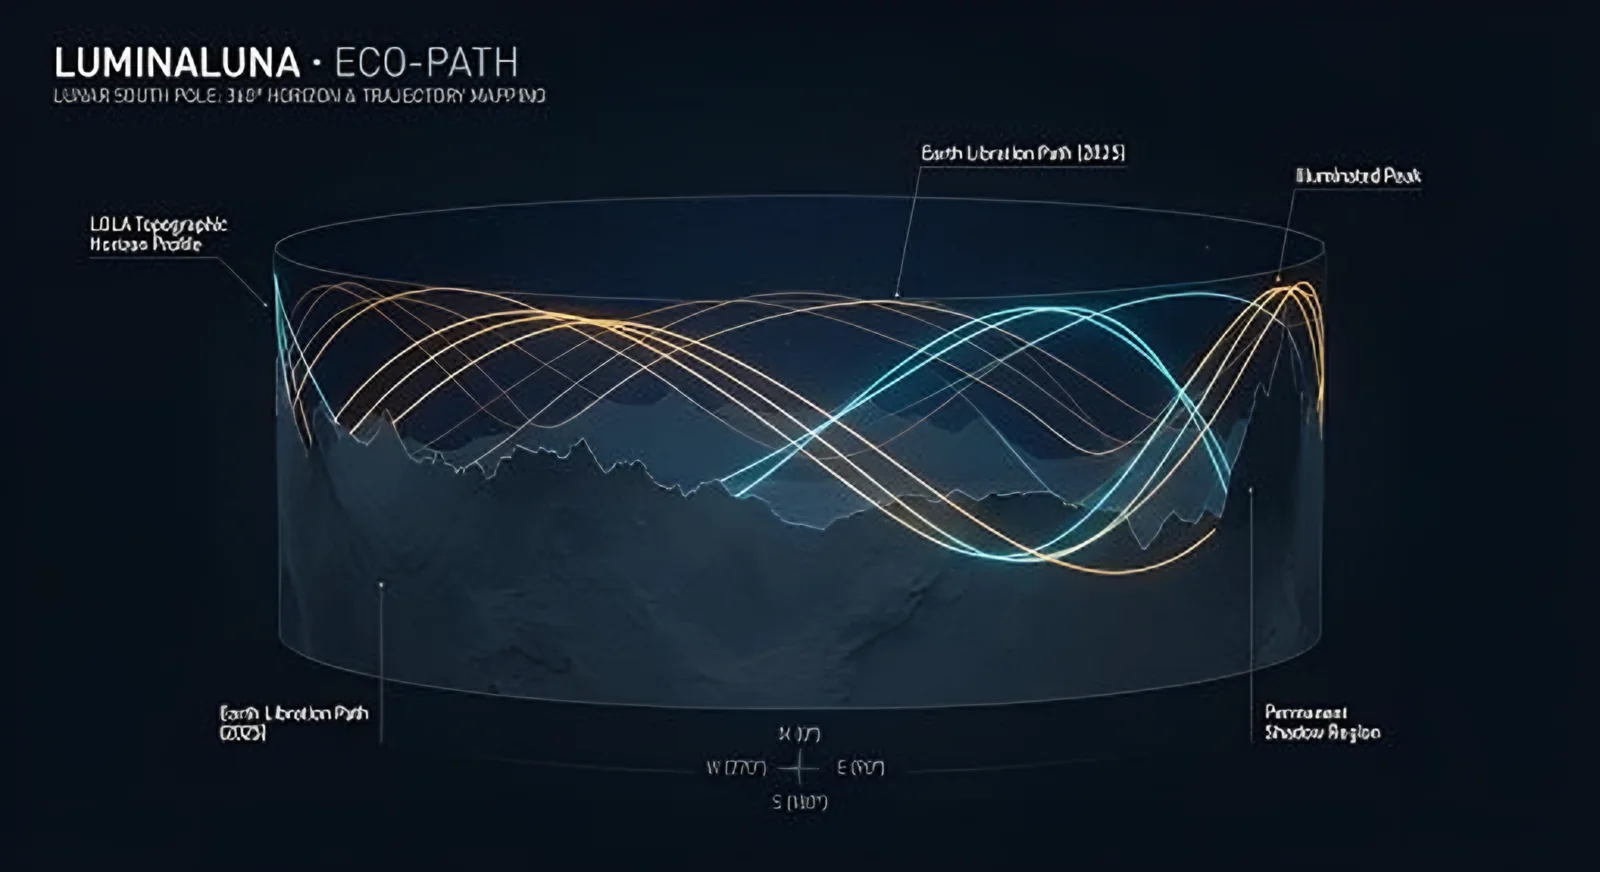
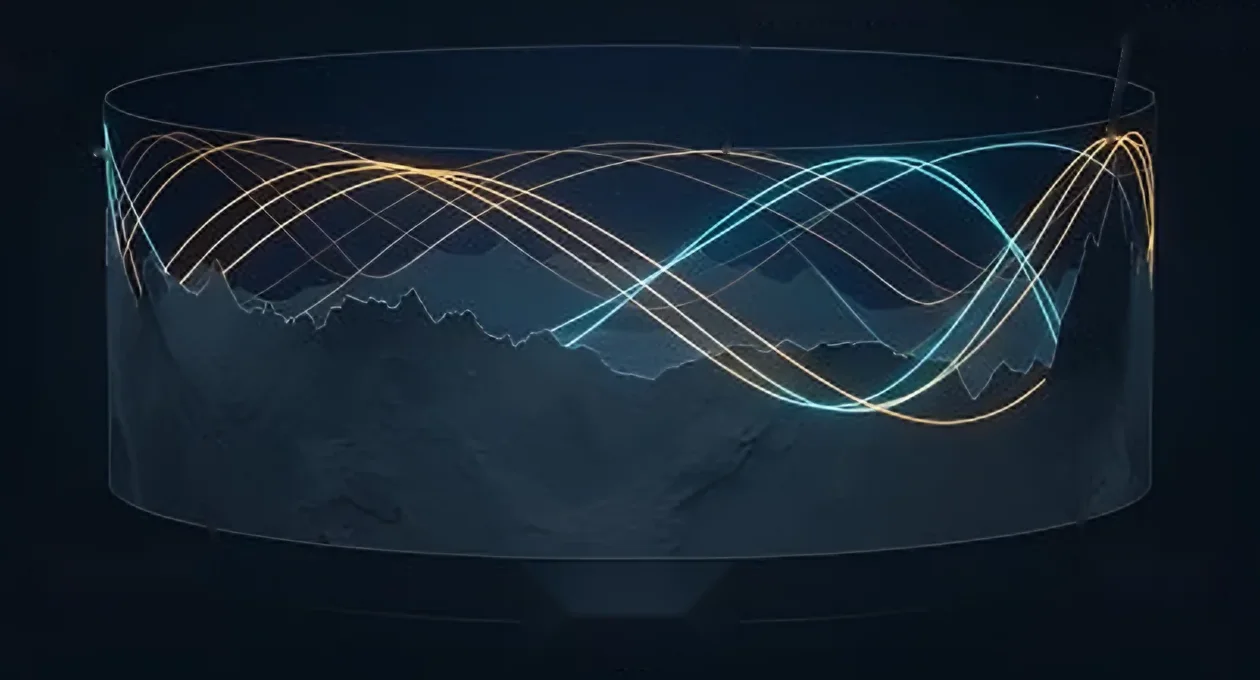
Clearer mission card with Sun and Earth chart; cache-proof files

diff --git a/app/js/landing.js b/app/js/landing.js
@@ -1,8 +1,8 @@
 // landing.js — the home page: hero map with real site positions, top sites, key facts, mission skyline.
-import { $, $$, esc, store, LOGO, countUp, revealOnScroll, fmtPct, fmtNum, fmtLat, fmtLon, isoMin, parseIsoUTC, shortName, thumbUrl, yearSummary } from './ui.js';
-import { loadSites, ephemRange, dataUrl, mapMeta } from './data.js';
-import { prepareSite, statusAt, series, VISIBLE } from './engine.js';
-import { toPolarXY } from './geo.js';
+import { $, $$, esc, store, LOGO, countUp, revealOnScroll, fmtPct, fmtNum, fmtLat, fmtLon, isoMin, parseIsoUTC, shortName, thumbUrl, yearSummary } from './ui.js?v=8';
+import { loadSites, ephemRange, dataUrl, mapMeta } from './data.js?v=8';
+import { prepareSite, statusAt, series, VISIBLE } from './engine.js?v=8';
+import { toPolarXY } from './geo.js?v=8';
 
 const sites = await loadSites();
 const range = await ephemRange();
@@ -117,19 +117,33 @@ kio.observe($('#kGrid'));
 
 // ------------------------------------------------------------------ mission skyline (real data)
 async function missionSky() {
-  const s = prepareSite(byId('shackleton_rim_sr1')), win = await series(s, now, 30 * 24);
-  const el = $('#mSky'), W = Math.max(300, el.clientWidth), H = 170, lo = -3, hi = 5;
-  const X = az => az / 360 * W, Yp = e => (hi - e) / (hi - lo) * (H - 18);
-  let d = `M0,${H - 18}`;
-  s.skyline.forEach((v, i) => { d += `L${X(i * .5).toFixed(1)},${Yp(Math.max(lo, v)).toFixed(1)}`; });
-  d += `L${W},${H - 18}Z`;
-  let sun = '';
-  for (let i = 0; i < win.n; i += 6) if (win.valid[i]) sun += `<circle cx="${X(win.sunAz[i]).toFixed(1)}" cy="${Yp(win.sunEl[i]).toFixed(1)}" r="1.6" fill="${win.sunFrac[i] >= VISIBLE ? '#F2B544' : '#3A4458'}"/>`;
-  const lab = ['N', 'E', 'S', 'W', 'N'].map((c, i) => `<text x="${Math.min(W - 8, Math.max(8, X(i * 90)))}" y="${H - 3}" font-size="10" fill="#8C98AB" font-family="Inter" font-weight="600" text-anchor="middle">${c}</text>`).join('');
-  el.innerHTML = `<svg viewBox="0 0 ${W} ${H}" width="100%" height="${H}"><defs><linearGradient id="mt" x1="0" y1="0" x2="0" y2="1"><stop offset="0" stop-color="#22324C"/><stop offset="1" stop-color="#0D1524"/></linearGradient></defs>
-    <line x1="0" x2="${W}" y1="${Yp(0)}" y2="${Yp(0)}" stroke="#2B3B55" stroke-dasharray="2 4"/>${sun}<path d="${d}" fill="url(#mt)" stroke="#57B8E8" stroke-opacity=".5"/>${lab}</svg>`;
-  const m = yearSummary(byId('shackleton_rim_sr1'), Y);
-  $('#mSun').textContent = `${fmtPct(m.sunPct, 0)} sunlit in ${Y}`;
+  const site = byId('shackleton_rim_sr1'), s = prepareSite(site), win = await series(s, now, 30 * 24);
+  const el = $('#mSky'), W = Math.max(300, el.clientWidth), H = 230, B = 22, L = 34;
+  let lo = -2, hi = 2;
+  s.skyline.forEach(v => { lo = Math.min(lo, v); hi = Math.max(hi, v); });
+  for (let i = 0; i < win.n; i++) if (win.valid[i]) { lo = Math.min(lo, win.sunEl[i], win.earthEl[i]); hi = Math.max(hi, win.sunEl[i], win.earthEl[i]); }
+  lo = Math.floor(lo - .5); hi = Math.ceil(hi + .5);
+  const X = az => L + az / 360 * (W - L), Yp = e => 6 + (hi - e) / (hi - lo) * (H - B - 6);
+  let d = `M${L},${H - B}`;
+  s.skyline.forEach((v, i) => { d += `L${X(i * 360 / s.skyline.length).toFixed(1)},${Yp(v).toFixed(1)}`; });
+  d += `L${W},${Yp(s.skyline[0]).toFixed(1)}L${W},${H - B}Z`;
+  let dots = '';
+  for (let i = 0; i < win.n; i += 4) if (win.valid[i]) {
+    const sOn = win.sunFrac[i] >= VISIBLE, eOn = win.earthFrac[i] >= VISIBLE;
+    dots += `<circle cx="${X(win.earthAz[i]).toFixed(1)}" cy="${Yp(win.earthEl[i]).toFixed(1)}" r="2" fill="#57B8E8" opacity="${eOn ? .95 : .22}"/>`;
+    dots += `<circle cx="${X(win.sunAz[i]).toFixed(1)}" cy="${Yp(win.sunEl[i]).toFixed(1)}" r="2" fill="#F2B544" opacity="${sOn ? .95 : .22}"/>`;
+  }
+  const step = (hi - lo) > 10 ? 4 : 2;
+  let grid = '';
+  for (let e = Math.ceil(lo / step) * step; e <= hi; e += step) grid += `<line x1="${L}" x2="${W}" y1="${Yp(e)}" y2="${Yp(e)}" stroke="#1E2A3D" ${e === 0 ? 'stroke="#3A4A63" stroke-dasharray="3 4"' : ''}/><text x="${L - 6}" y="${Yp(e) + 3.5}" font-size="10.5" fill="#8C98AB" text-anchor="end" font-family="Inter">${e > 0 ? '+' : ''}${e}°</text>`;
+  const lab = [['N', 0], ['E', 90], ['S', 180], ['W', 270], ['N', 360]].map(([c, az]) => `<text x="${Math.min(W - 6, X(az))}" y="${H - 5}" font-size="11" fill="#AEB7C6" font-family="Inter" font-weight="600" text-anchor="middle">${c}</text>`).join('');
+  el.innerHTML = `<svg viewBox="0 0 ${W} ${H}" width="100%" height="${H}" role="img"><defs><linearGradient id="mt" x1="0" y1="0" x2="0" y2="1"><stop offset="0" stop-color="#2A3954"/><stop offset="1" stop-color="#101827"/></linearGradient></defs>
+    ${grid}${dots}<path d="${d}" fill="url(#mt)" stroke="#8FA1BA" stroke-opacity=".6"/>${lab}</svg>`;
+  const m = yearSummary(site, Y);
+  $('#mSun').textContent = fmtPct(m.sunPct, 0);
+  $('#mEarth').textContent = fmtPct(m.earthPct, 0);
+  $('#mSunL').textContent = `of ${Y} in sunlight`;
+  $('#mEarthL').textContent = `of ${Y} with Earth in view`;
 }
 await missionSky();
 revealOnScroll();

diff --git a/app/index.html b/app/index.html
@@ -77,11 +77,19 @@
       <p>Near the lunar south pole, the Sun skims the horizon and Earth rises and sets slowly. A few kilometres decide between power and darkness, contact and silence. We compute sunlight and direct Earth visibility for candidate sites and for any point you click, using real NASA lunar terrain.</p>
       <p class="muted">By combining NASA LOLA laser topography with JPL planetary ephemerides, LUMINALUNA helps mission planners find sites with the most sunlight and the most time in direct radio contact with Earth.</p>
     </div>
-    <div class="card">
-      <img class="mimg" src="assets/photos/mission-diagram.webp" alt="Illustration of the Sun and Earth paths above a 360 degree horizon" width="512" height="279" loading="lazy">
-      <div class="card-head" style="margin-bottom:8px"><span class="label">Horizon · 360° around Shackleton rim</span><span class="label sun" id="mSun"></span></div>
-      <div id="mSky"></div>
-      <div class="note" style="margin-top:6px">The real skyline from NASA terrain, with the Sun's path over the next 30 days.</div>
+    <div class="card mcard">
+      <figure class="mfig">
+        <img src="assets/photos/mission-diagram.webp?v=8" alt="Illustration of the Sun's path in amber and Earth's path in blue looping around the horizon of a lunar site" width="1260" height="680" loading="lazy">
+        <figcaption><span class="lg s">Sun's path</span><span class="lg e">Earth's path</span><span class="tag">Illustration</span></figcaption>
+      </figure>
+      <h3 class="mtitle">The sky above Shackleton rim, from real data</h3>
+      <p class="msub">At the south pole, the Sun and Earth never climb high. They circle just above the hills, so a single ridge can hide them for days.</p>
+      <div class="mstats">
+        <div><b class="sun" id="mSun">–</b><span id="mSunL">of the year in sunlight</span></div>
+        <div><b class="earth" id="mEarth">–</b><span id="mEarthL">of the year with Earth in view</span></div>
+      </div>
+      <div id="mSky" aria-label="Chart of the real horizon at Shackleton rim with the Sun and Earth positions over the next 30 days"></div>
+      <p class="mnote">The grey shape is the real horizon, measured by NASA's LOLA laser. Each dot shows where the Sun or Earth will be over the next 30 days. A bright dot is above the hills: <span class="sun">sunlight for solar panels</span> or <span class="earth">a direct radio link to Earth</span>. A faded dot is hidden behind the terrain.</p>
     </div>
   </section>
 

diff --git a/app/css/landing.css b/app/css/landing.css
@@ -245,3 +245,20 @@ body.landing::before { display: none; }
 .lnav { transition: top .35s cubic-bezier(.2,.8,.2,1); }
 .lnav.bar-hidden { top: -110px; }
 @media (prefers-reduced-motion: reduce) { .lnav { transition: none; } }
+
+/* mission card: cleaner illustration + real chart with plain-language text */
+.mcard { padding: 22px; }
+.mfig { position: relative; margin: 0 0 18px; border-radius: 12px; overflow: hidden; background: #070B14; }
+.mfig img { display: block; width: 100%; height: auto; }
+.mfig figcaption { position: absolute; left: 12px; right: 12px; bottom: 10px; display: flex; gap: 14px; align-items: center; font: 600 12.5px var(--sans); color: #E8ECF2; }
+.mfig .lg::before { content: ""; display: inline-block; width: 18px; height: 3px; border-radius: 2px; margin-right: 7px; vertical-align: middle; }
+.mfig .lg.s::before { background: var(--sun); } .mfig .lg.e::before { background: var(--earth); }
+.mfig .tag { margin-left: auto; font-weight: 500; color: #AEB7C6; background: rgba(5,8,14,.6); padding: 3px 8px; border-radius: 6px; }
+.mtitle { font: 600 24px/1.25 var(--serif); margin: 0 0 6px; color: var(--text); }
+.msub { font-size: 15.5px !important; line-height: 1.6 !important; color: #AEB7C6; margin: 0 0 16px; }
+.mstats { display: grid; grid-template-columns: 1fr 1fr; gap: 12px; margin-bottom: 14px; }
+.mstats > div { background: rgba(255,255,255,.03); border: 1px solid var(--line); border-radius: 10px; padding: 12px 14px; display: flex; flex-direction: column; gap: 2px; }
+.mstats b { font: 600 30px/1 var(--serif); }
+.mstats span { font-size: 13.5px; color: #AEB7C6; }
+.mnote { font-size: 14px !important; line-height: 1.6 !important; color: #AEB7C6; margin: 10px 0 0; }
+.mnote .sun, .mnote .earth { font-weight: 600; }

diff --git a/app/js/engine.js b/app/js/engine.js
@@ -2,8 +2,8 @@
 import {
   makeObserver, azEl, angularRadius, visibleFraction, horizonAt, solarPowerW,
   R_SUN_KM, R_EARTH_KM, toPolarXY, destination, terrainAngle, distanceBearing,
-} from './geo.js';
-import { ephemHours, HOUR, loadDEMs } from './data.js';
+} from './geo.js?v=8';
+import { ephemHours, HOUR, loadDEMs } from './data.js?v=8';
 
 export const VISIBLE = 0.5;          // body "visible" when >= half its disk is above the skyline
 export const AZ_STEP = 0.5;
@@ -258,7 +258,7 @@ export async function nearestEarthSpot(site, startMs, { days = 30, radiusM = 500
   cands.sort((a, b) => a.d - b.d);
   const target = Math.min(100, Math.max(here.earthPct + 20, 50));
   let best = null, bestPct = here.earthPct;
-  const { fromPolarXY } = await import('./geo.js');
+  const { fromPolarXY } = await import('./geo.js?v=8');
   for (let i = 0; i < cands.length; i++) {
     const c = cands[i];
     if (best && c.d > best.d + 1) break;                 // nearest qualifying ring found

diff --git a/app/js/site.js b/app/js/site.js
@@ -3,10 +3,10 @@ import {
   initShell, onTime, setTime, state, $, $$, esc, href, siteParams, siteKey, siteFromKey, store, toast, addCompare, loadSites,
   fmtLat, fmtLon, fmtCoords, fmtNum, fmtPct, fmtLong, fmtDur, fmtDeg, fmtDate, fmtDayHM, fmtDay, MONTHS, DAY,
   yearSummary, shortName, timelineSVG, timelinePick, refreshNav, dirWord, thumbUrl, countUp,
-} from './ui.js';
-import { statusAt, series, summarize, earthWindows, yearStats, nearestEarthSpot, VISIBLE } from './engine.js';
-import { angularRadius, compass, R_EARTH_KM } from './geo.js';
-import { HOUR } from './data.js';
+} from './ui.js?v=8';
+import { statusAt, series, summarize, earthWindows, yearStats, nearestEarthSpot, VISIBLE } from './engine.js?v=8';
+import { angularRadius, compass, R_EARTH_KM } from './geo.js?v=8';
+import { HOUR } from './data.js?v=8';
 
 await initShell('site');
 

diff --git a/app/js/learn.js b/app/js/learn.js
@@ -1,8 +1,8 @@
 // learn.js — the real example: Shackleton rim vs the exact south pole through 2026.
-import { initShell, $, esc, href, fmtDate, fmtPct, fmtNum, fmtDeg, fmtLong, fmtDay, siteFromKey, yearSummary, timelineSVG, state, onTime, dirWord } from './ui.js';
-import { series, VISIBLE } from './engine.js';
-import { distanceBearing, horizonAt, compass } from './geo.js';
-import { HOUR } from './data.js';
+import { initShell, $, esc, href, fmtDate, fmtPct, fmtNum, fmtDeg, fmtLong, fmtDay, siteFromKey, yearSummary, timelineSVG, state, onTime, dirWord } from './ui.js?v=8';
+import { series, VISIBLE } from './engine.js?v=8';
+import { distanceBearing, horizonAt, compass } from './geo.js?v=8';
+import { HOUR } from './data.js?v=8';
 
 await initShell('learn');
 $('#tryit').href = href('explore');

diff --git a/app/js/explore.js b/app/js/explore.js
@@ -2,10 +2,10 @@
 import {
   initShell, onTime, state, $, $$, esc, href, siteParams, store, toast, loadSites, siteFromKey, siteKey, addCompare, refreshNav,
   fmtLat, fmtLon, fmtCoords, fmtNum, fmtPct, fmtLong, fmtDur, fmtDeg, yearSummary, verdict, shortName, countUp,
-} from './ui.js';
-import { prepareSite, yearStats, statusAt, slopeAt } from './engine.js';
-import { toPolarXY, fromPolarXY } from './geo.js';
-import { mapMeta, dataUrl } from './data.js';
+} from './ui.js?v=8';
+import { prepareSite, yearStats, statusAt, slopeAt } from './engine.js?v=8';
+import { toPolarXY, fromPolarXY } from './geo.js?v=8';
+import { mapMeta, dataUrl } from './data.js?v=8';
 
 await initShell('explore');
 

diff --git a/app/js/compare.js b/app/js/compare.js
@@ -3,9 +3,9 @@ import {
   initShell, onTime, state, $, $$, esc, href, siteParams, siteKey, siteFromKey, store, toast, loadSites,
   fmtCoords, fmtNum, fmtPct, fmtLong, fmtDate, fmtDay, isoMin, parseIsoUTC, DAY, getCompare, setCompare,
   yearSummary, shortName, timelineSVG, thumbUrl, fmtLat, fmtLon, countUp,
-} from './ui.js';
-import { series, summarize } from './engine.js';
-import { HOUR } from './data.js';
+} from './ui.js?v=8';
+import { series, summarize } from './engine.js?v=8';
+import { HOUR } from './data.js?v=8';
 
 await initShell('compare');
 const DAYS = 30;

diff --git a/app/js/ui.js b/app/js/ui.js
@@ -1,6 +1,6 @@
 // ui.js — shared page shell (sidebar, date picker, Beginner/Expert), formatting and small widgets.
-import { ephemRange, getSite, loadSites, HOUR, dataUrl } from './data.js';
-import { prepareSite, customSite, runs, VISIBLE } from './engine.js';
+import { ephemRange, getSite, loadSites, HOUR, dataUrl } from './data.js?v=8';
+import { prepareSite, customSite, runs, VISIBLE } from './engine.js?v=8';
 
 export const DAY = 24 * HOUR;
 export const $ = (sel, root = document) => root.querySelector(sel);
